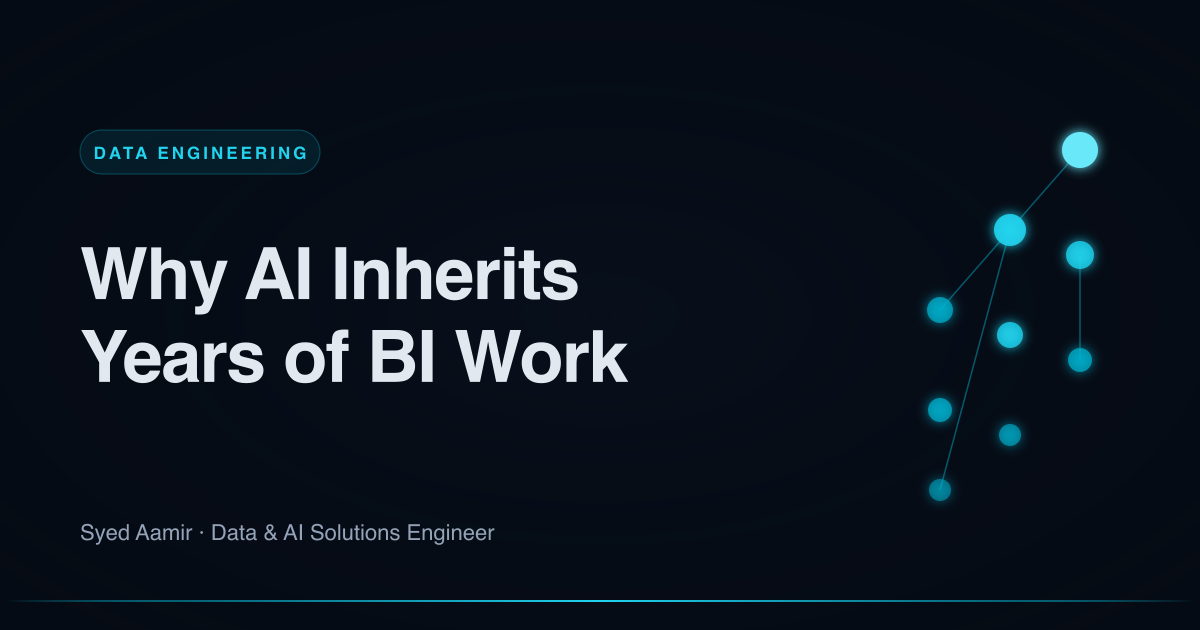
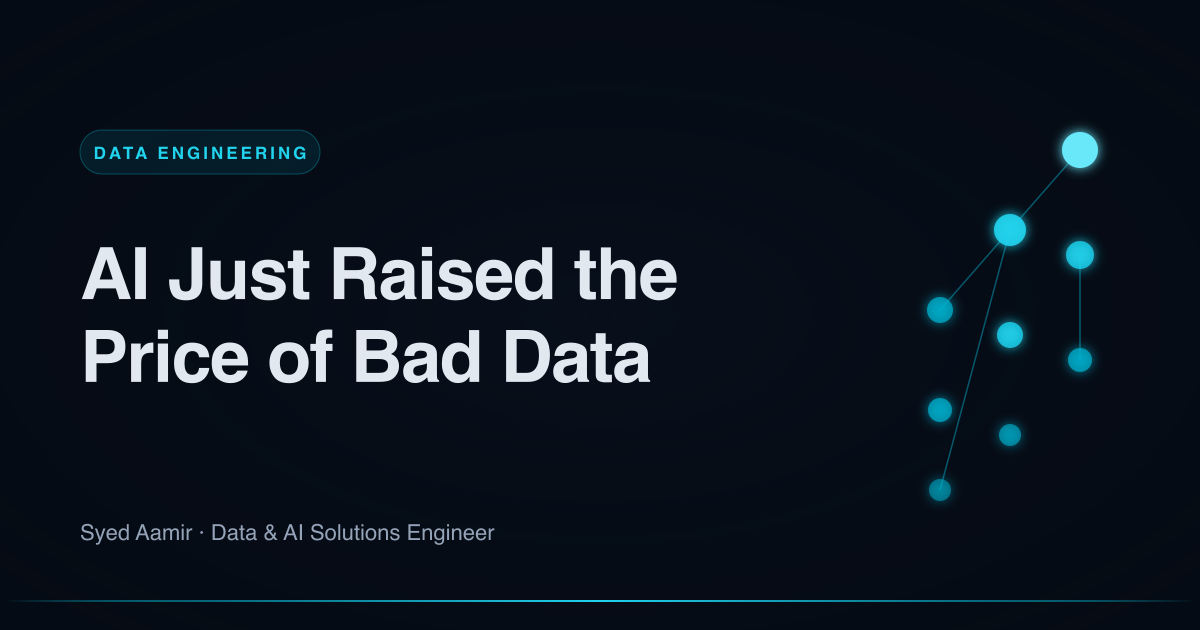
Retitle pilot OG card to match the LinkedIn hook
The companion opens on the post's core tension (bad data now ships confident AI
mistakes), but the OG card led with the softer inheritance angle. Change
og_title to 'AI Just Raised the Price of Bad Data' (the post's own bolded
payoff) and regenerate the card, so the feed reads as one thought: companion
hook, card tension, framework headline, thesis description.

Changed region(s): [[0.0617, 0.3921, 0.5858, 0.5127], [0.0617, 0.5127, 0.555, 0.6333]]

diff --git a/src/content/blog/bi-to-ai-journey.md b/src/content/blog/bi-to-ai-journey.md
@@ -2,7 +2,7 @@
 title: "From BI to AI: The Four-Layer Compounding Stack"
 date: 2026-06-24
 description: "Most teams treat BI, analytics, data science, and AI as separate careers. The ones that compound treat them as one stack, where each layer builds on the last."
-og_title: "Why AI Inherits Years of BI Work"
+og_title: "AI Just Raised the Price of Bad Data"
 categories: ["Data Engineering", "AI & Automation"]
 draft: false
 ---